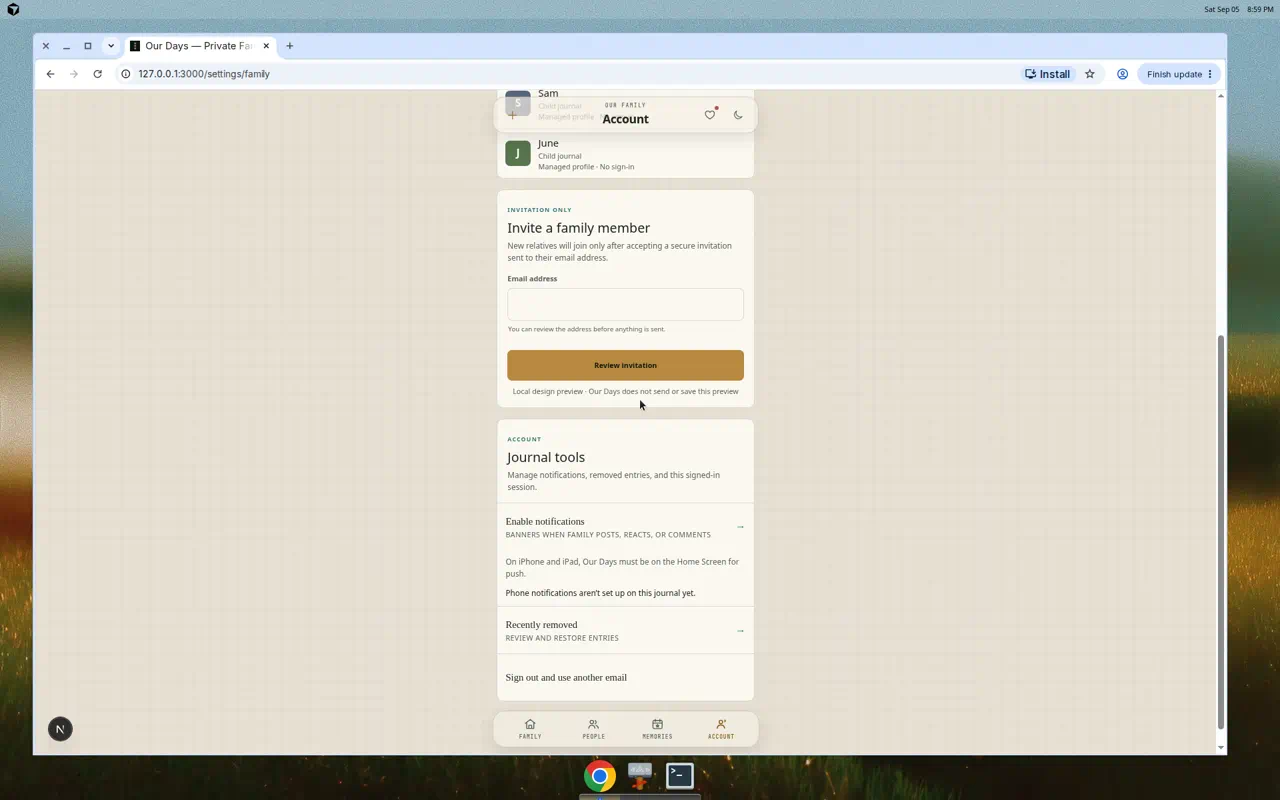
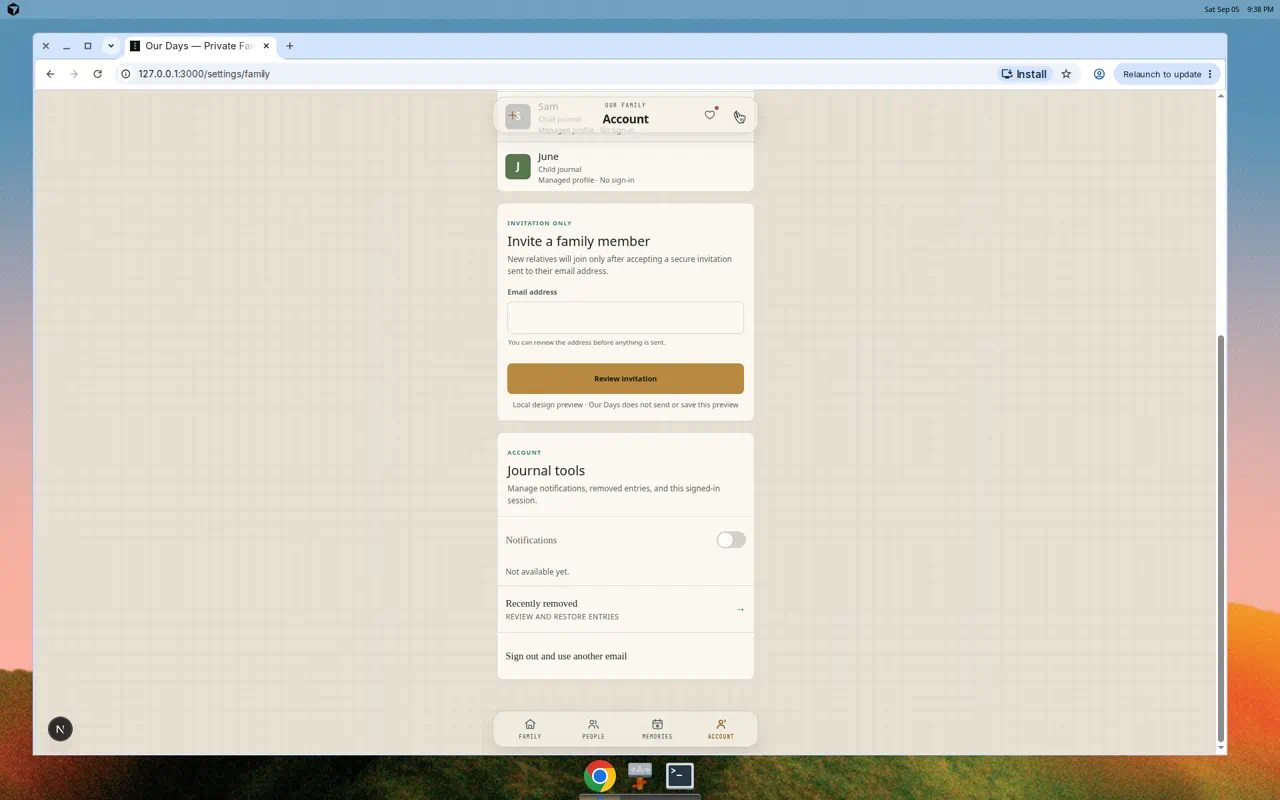
Keep the Notifications switch usable before a service worker is ready.
Initial subscription reads now use getRegistration instead of waiting on
serviceWorker.ready, so the toggle can request permission on first click.
Refresh Account light and dark review stills for the switch row.

diff --git a/src/features/family-settings/notification-preference.test.tsx b/src/features/family-settings/notification-preference.test.tsx
@@ -56,14 +56,16 @@ function stubPushEnvironment(options?: {
     configurable: true,
     value: {},
   });
+  const registration = {
+    pushManager: { subscribe, getSubscription },
+  };
   Object.defineProperty(navigator, "serviceWorker", {
     configurable: true,
     value: {
-      register: vi.fn().mockResolvedValue({
-        pushManager: { subscribe, getSubscription },
-      }),
-      ready: Promise.resolve({
-        pushManager: { subscribe, getSubscription },
+      register: vi.fn().mockResolvedValue(registration),
+      getRegistration: vi.fn().mockResolvedValue(registration),
+      ready: new Promise(() => {
+        // Never settle — the switch must not wait on serviceWorker.ready.
       }),
     },
   });
@@ -122,6 +124,16 @@ describe("NotificationPreference", () => {
     expect(toggle).toHaveAttribute("aria-checked", "false");
     expect(screen.getByText("Not available yet.")).toBeVisible();
     expect(screen.queryByText(/Home Screen/u)).toBeNull();
+  });
+
+  it("lets the switch turn on before a service worker is ready", async () => {
+    vi.stubEnv("NEXT_PUBLIC_WEB_PUSH_VAPID_PUBLIC_KEY", "BpublicTestKey");
+    stubPushEnvironment();
+
+    render(<NotificationPreference />);
+    const toggle = await screen.findByRole("switch", { name: "Notifications" });
+    await waitFor(() => expect(toggle).toBeEnabled());
+    expect(toggle).toHaveAttribute("aria-checked", "false");
   });
 
   it("keeps the Home Screen note under the row on iPhone", async () => {

diff --git a/src/features/family-settings/notification-preference.tsx b/src/features/family-settings/notification-preference.tsx
@@ -43,7 +43,8 @@ async function currentPushSubscription() {
   if (!("serviceWorker" in navigator) || !("PushManager" in window)) {
     return null;
   }
-  const registration = await navigator.serviceWorker.ready;
+  const registration = await navigator.serviceWorker.getRegistration();
+  if (!registration) return null;
   return registration.pushManager.getSubscription();
 }
 
@@ -156,7 +157,8 @@ export function NotificationPreference() {
   };
 
   const on = state === "on";
-  const canToggle = configured && !busy && (state === "off" || state === "on");
+  const canToggle =
+    configured && !busy && state !== "blocked" && state !== "unsupported";
   const helper = !configured
     ? "Not available yet."
     : isIosDevice() && !isStandaloneDisplay()
